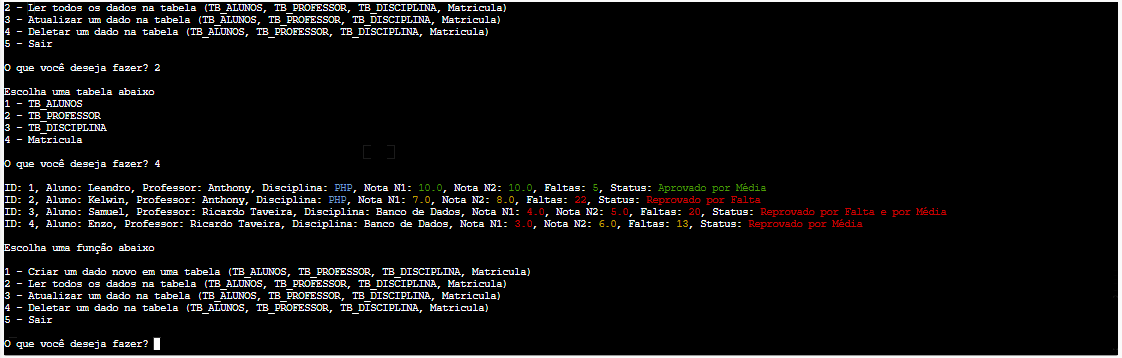
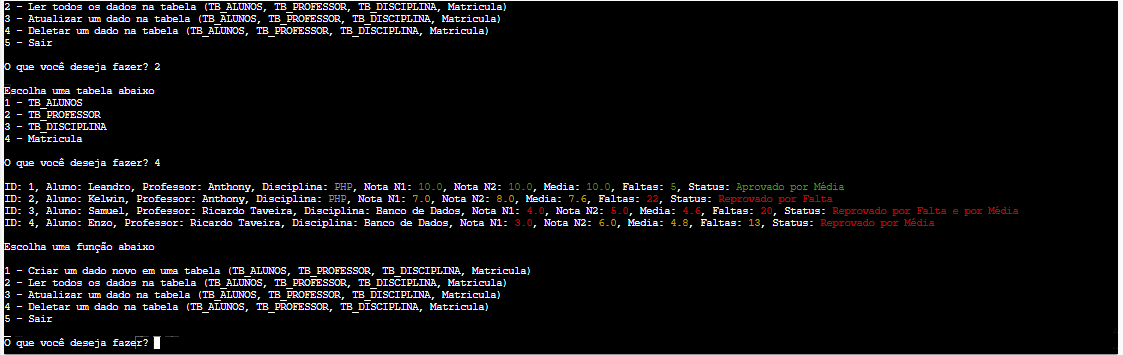
Colocar a Media no banco de dados e adicionar as fotos do phpMyAdmin

diff --git a/atividades/atividade-10/README.md b/atividades/atividade-10/README.md
@@ -119,6 +119,7 @@ mycursor.execute("""CREATE TABLE IF NOT EXISTS Matricula (
     id_disciplina INT,
     nota_N1 FLOAT,
     nota_N2 FLOAT,
+    media FLOAT,
     faltas INT,
     Aprovado_SN BOOLEAN,
     FOREIGN KEY (id_aluno) REFERENCES TB_ALUNOS(id),
@@ -161,7 +162,7 @@ def create_data_on_table(tabela):
             else:
                 aprovado_sn = True
 
-            mycursor.execute("INSERT INTO Matricula (id_aluno, id_professor, id_disciplina, nota_N1, nota_N2, faltas, Aprovado_SN) VALUES (%s, %s, %s, %s, %s, %s, %s);", (nome_aluno, nome_professor, disciplina, nota_N1, nota_N2, faltas, aprovado_sn))
+            mycursor.execute("INSERT INTO Matricula (id_aluno, id_professor, id_disciplina, nota_N1, nota_N2, media, faltas, Aprovado_SN) VALUES (%s, %s, %s, %s, %s, %s, %s, %s);", (nome_aluno, nome_professor, disciplina, nota_N1, nota_N2, media_parcial, faltas, aprovado_sn))
             mydb.commit()
 
 # Read
@@ -173,18 +174,21 @@ def read_data_on_table(tabela):
         case "TB_ALUNOS":
             for item in meuresultado:
                 id, nome = item
-                print(f"Aluno: {nome}")
+                print(f"ID: {id}, ",
+                    f"Aluno: {nome}")
         case "TB_PROFESSOR":
             for item in meuresultado:
                 id, nome = item
-                print(f"Professor: {nome}")
+                print(f"ID: {id}, ",
+                    f"Professor: {nome}")
         case "TB_DISCIPLINA":
             for item in meuresultado:
                 id, nome = item
-                print(f"Disciplina: {nome}")
+                print(f"ID: {id}, ",
+                    f"Disciplina: {nome}")
         case "Matricula":
             for item in meuresultado:
-                id, id_aluno, id_professor, disciplina, nota_N1, nota_N2, faltas, aprovado_sn = item
+                id, id_aluno, id_professor, disciplina, nota_N1, nota_N2, media, faltas, aprovado_sn = item
 
                 mycursor.execute(f"SELECT nome FROM TB_ALUNOS WHERE id = {id_aluno}")
                 nome_aluno = mycursor.fetchone()[0]
@@ -242,6 +246,14 @@ def read_data_on_table(tabela):
                 else:
                     nota_n2_color = Fore.GREEN
 
+                # Cor da media
+                if nota_N2 <= 5:
+                    media_color = Fore.RED
+                elif nota_N2 <= 9:
+                    media_color = Fore.YELLOW
+                else:
+                    media_color = Fore.GREEN
+
                 # Cor da Disciplina
                 match(nome_disciplina):
                     case "PHP":
@@ -258,6 +270,7 @@ def read_data_on_table(tabela):
                     f"Disciplina:{disciplina_color} {nome_disciplina}{Fore.RESET}, "
                     f"Nota N1:{nota_n1_color} {nota_N1}{Fore.RESET}, "
                     f"Nota N2:{nota_n2_color} {nota_N2}{Fore.RESET}, "
+                    f"Media:{media_color} {media_parcial}{Fore.RESET}, "
                     f"Faltas:{faltas_color} {faltas}{Fore.RESET}, "
                     f"Status:{status_color} {status}{Style.RESET_ALL}")
 
@@ -292,7 +305,7 @@ def update_data_on_table(tabela):
             else:
                 aprovado_sn = True
 
-            mycursor.execute(f"UPDATE Matricula SET id_aluno = %s, id_professor = %s, id_disciplina = %s, nota_N1 = %s, nota_N2 = %s, faltas = %s, Aprovado_SN = %s WHERE id = %s;", (id_aluno, id_professor, id_disciplina, nota_N1, nota_N2, faltas, aprovado_sn, id))
+            mycursor.execute(f"UPDATE Matricula SET id_aluno = %s, id_professor = %s, id_disciplina = %s, nota_N1 = %s, nota_N2 = %s, media = %s, faltas = %s, Aprovado_SN = %s WHERE id = %s;", (id_aluno, id_professor, id_disciplina, nota_N1, nota_N2, media_parcial, faltas, aprovado_sn, id))
             mydb.commit()
 
 # Delete
@@ -409,7 +422,7 @@ while True:
             else:
                 aprovado_sn = True
 
-            mycursor.execute("INSERT INTO Matricula (id_aluno, id_professor, id_disciplina, nota_N1, nota_N2, faltas, Aprovado_SN) VALUES (%s, %s, %s, %s, %s, %s, %s);", (id_aluno, id_professor, id_disciplina, nota_N1, nota_N2, faltas, aprovado_sn))
+            mycursor.execute("INSERT INTO Matricula (id_aluno, id_professor, id_disciplina, nota_N1, nota_N2, media, faltas, Aprovado_SN) VALUES (%s, %s, %s, %s, %s, %s, %s, %s);", (id_aluno, id_professor, id_disciplina, nota_N1, nota_N2, media_parcial, faltas, aprovado_sn))
             mydb.commit()
             id_matricula = mycursor.lastrowid
 
@@ -450,7 +463,7 @@ while True:
                 print("Nenhum aluno foi aprovado.")
             else:
                 for item in meuresultado:
-                    id, id_aluno, id_professor, disciplina, nota_N1, nota_N2, faltas, aprovado_sn = item
+                    id, id_aluno, id_professor, disciplina, nota_N1, nota_N2, media, faltas, aprovado_sn = item
 
                     mycursor.execute(f"SELECT nome FROM TB_ALUNOS WHERE id = {id_aluno}")
                     nome_aluno = mycursor.fetchone()[0]
@@ -502,18 +515,28 @@ while True:
                     else:
                         nota_n2_color = Fore.GREEN
 
+                    # Cor da media
+                    if nota_N2 <= 5:
+                        media_color = Fore.RED
+                    elif nota_N2 <= 9:
+                        media_color = Fore.YELLOW
+                    else:
+                        media_color = Fore.GREEN
+
                     # Cor da Disciplina
                     match(nome_disciplina):
                         case "PHP":
                             disciplina_color = Fore.LIGHTBLUE_EX
                         case _:
-                            disciplina_color = Fore.WHITE
-
-                    print(f"Aluno: {nome_aluno}, "
+                            disciplina_color = ""
+                            
+                    print(f"ID: {id}, "
+                        f"Aluno: {nome_aluno}, "
                         f"Professor: {nome_professor}, "
                         f"Disciplina:{disciplina_color} {nome_disciplina}{Fore.RESET}, "
                         f"Nota N1:{nota_n1_color} {nota_N1}{Fore.RESET}, "
                         f"Nota N2:{nota_n2_color} {nota_N2}{Fore.RESET}, "
+                        f"Media:{media_color} {media_parcial}{Fore.RESET}, "
                         f"Faltas:{faltas_color} {faltas}{Fore.RESET}, "
                         f"Status:{status_color} {status}{Style.RESET_ALL}")
 
@@ -525,7 +548,7 @@ while True:
                 print("Nenhum aluno foi reprovado.")
             else:
                 for item in meuresultado:
-                    id, id_aluno, id_professor, disciplina, nota_N1, nota_N2, faltas, aprovado_sn = item
+                    id, id_aluno, id_professor, disciplina, nota_N1, nota_N2, media, faltas, aprovado_sn = item
 
                     mycursor.execute(f"SELECT nome FROM TB_ALUNOS WHERE id = {id_aluno}")
                     nome_aluno = mycursor.fetchone()[0]
@@ -577,18 +600,28 @@ while True:
                     else:
                         nota_n2_color = Fore.GREEN
 
+                    # Cor da media
+                    if nota_N2 <= 5:
+                        media_color = Fore.RED
+                    elif nota_N2 <= 9:
+                        media_color = Fore.YELLOW
+                    else:
+                        media_color = Fore.GREEN
+
                     # Cor da Disciplina
                     match(nome_disciplina):
                         case "PHP":
                             disciplina_color = Fore.LIGHTBLUE_EX
                         case _:
-                            disciplina_color = Fore.WHITE
+                            disciplina_color = ""
                             
-                    print(f"Aluno: {nome_aluno}, "
+                    print(f"ID: {id}, "
+                        f"Aluno: {nome_aluno}, "
                         f"Professor: {nome_professor}, "
                         f"Disciplina:{disciplina_color} {nome_disciplina}{Fore.RESET}, "
                         f"Nota N1:{nota_n1_color} {nota_N1}{Fore.RESET}, "
                         f"Nota N2:{nota_n2_color} {nota_N2}{Fore.RESET}, "
+                        f"Media:{media_color} {media_parcial}{Fore.RESET}, "
                         f"Faltas:{faltas_color} {faltas}{Fore.RESET}, "
                         f"Status:{status_color} {status}{Style.RESET_ALL}")
 
